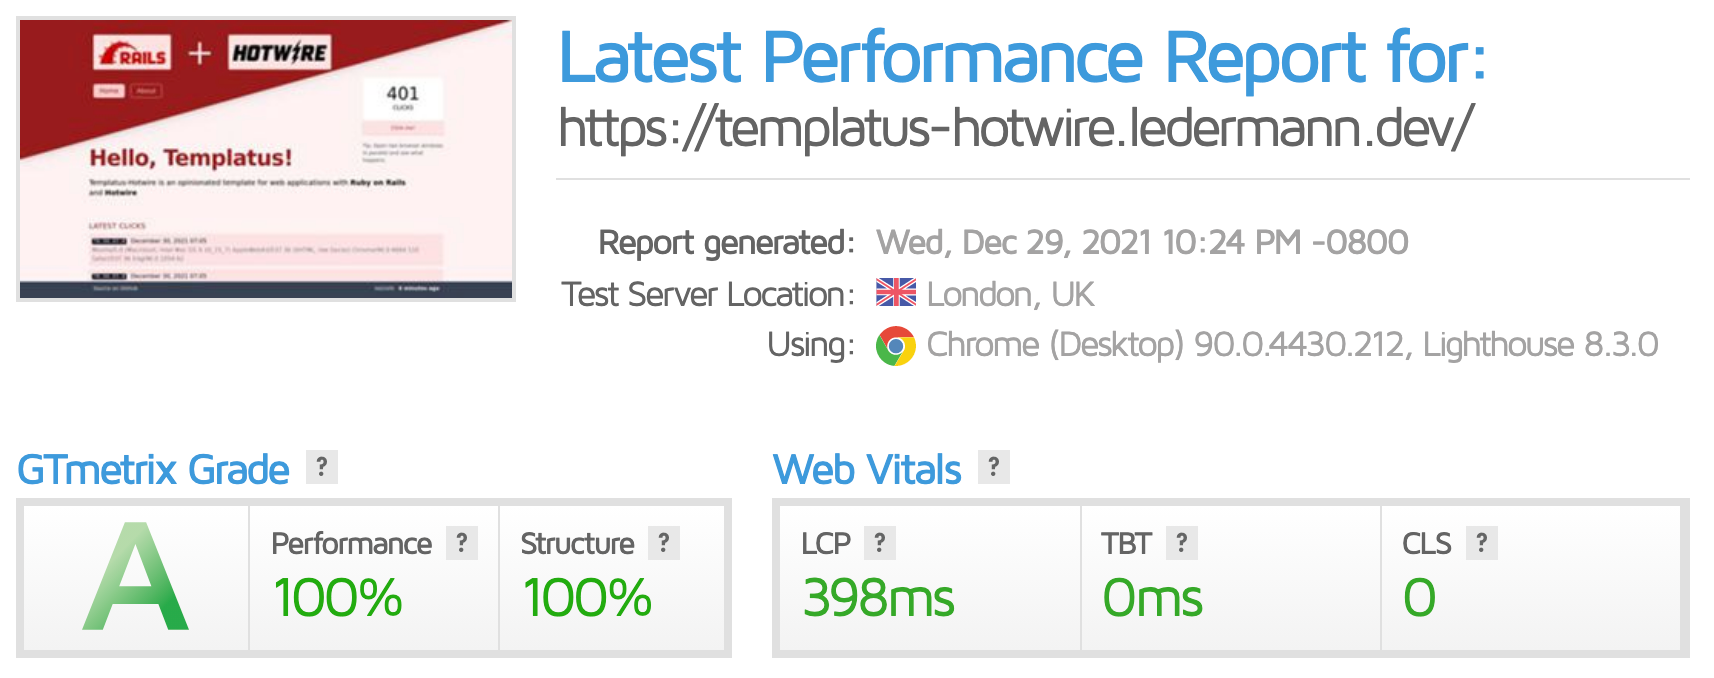
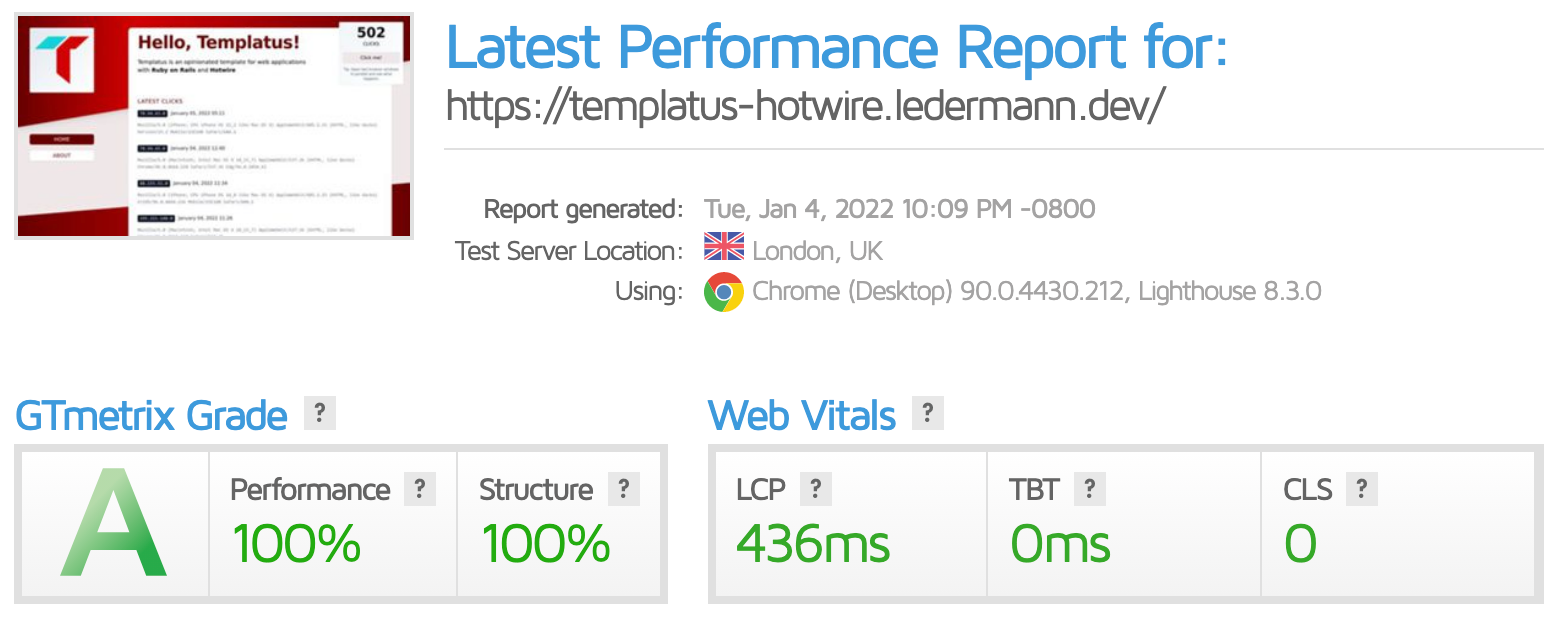
Update docs

Changed region(s): [[0.0, 0.0, 0.9821, 0.5463], [0.0, 0.6374, 1.0, 0.9712], [0.4604, 0.9409, 0.9821, 0.9712]]

diff --git a/README.md b/README.md
@@ -29,7 +29,6 @@ https://github.com/ledermann/templatus/
 - [Slim](http://slim-lang.com/) for writing templates instead of ERB
 - [Tailwind CSS 3](https://tailwindcss.com/) to not have to write CSS at all
 - [Heroicons](https://heroicons.com/) for beautiful hand-crafted SVG icons
-- [Rails Request.JS](https://github.com/rails/request.js) for AJAX requests with default headers
 - [esbuild](https://esbuild.github.io/) for bundling JavaScript
 
 ### Development
@@ -88,11 +87,11 @@ https://github.com/rails/rails/pull/41994
 
 ### WebPageTest
 
-[![WebPageTest](docs/web-page-test.png)](https://webpagetest.org/result/211213_AiDcS0_a690602e1bbcc6121d478fbd94f323b2/)
+[![WebPageTest](docs/web-page-test.png)](https://webpagetest.org/result/220105_BiDcP1_bf262a68c289184ff361e448f75f9ca2/)
 
 ### GTmetrix
 
-[![GTmetrix](docs/GTmetrix.png)](https://gtmetrix.com/reports/templatus-hotwire.ledermann.dev/wEwahJmQ/)
+[![GTmetrix](docs/GTmetrix.png)](https://gtmetrix.com/reports/templatus-hotwire.ledermann.dev/rrL1D1P7/)
 
 ### Check-your-website
 
